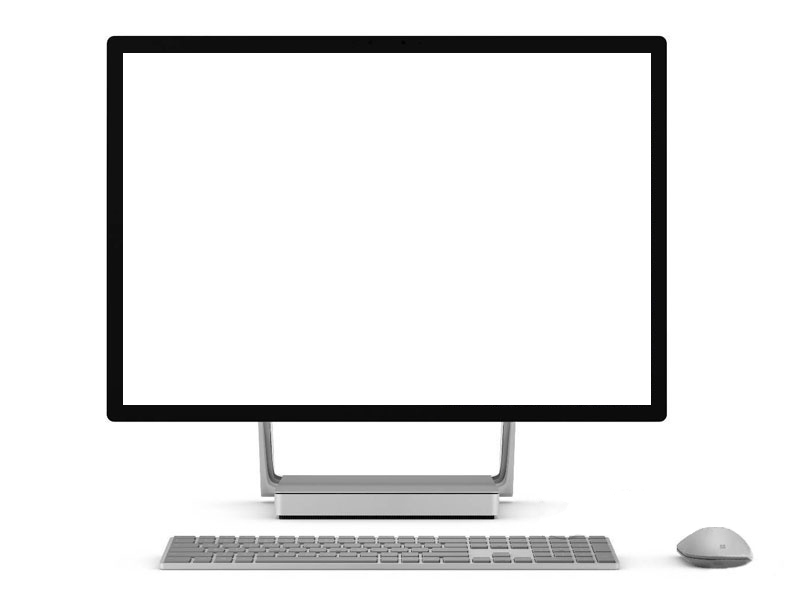
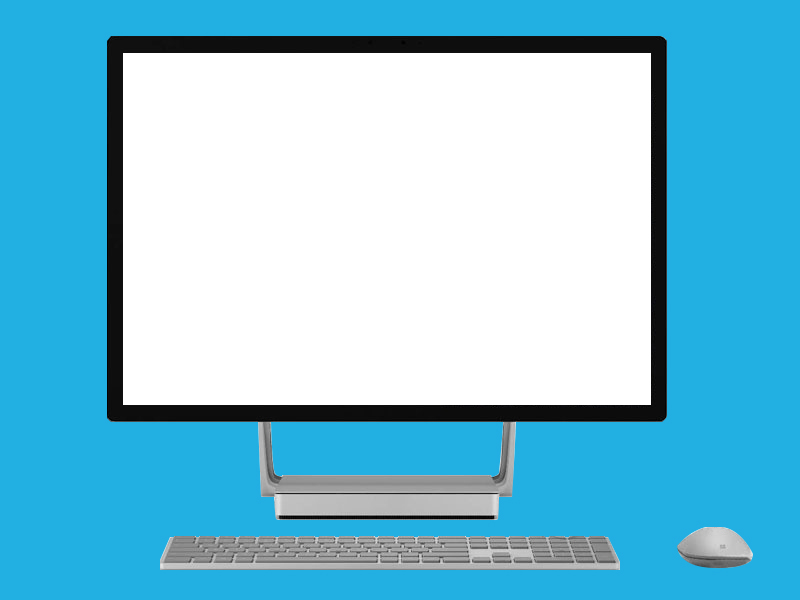
update nav-bar in home page

diff --git a/public/css/home.css b/public/css/home.css
@@ -11,6 +11,83 @@ body {
   -webkit-font-smoothing: antialiased;
 }
 
+header {
+	opacity: 0.2;
+	z-index: 11;
+	top: 0;
+	left: 0;
+	position: fixed;
+	height: 80px;
+	width: 100%;
+}
+
+.header-bg {
+	background-color: #FFFFFF;
+}
+.header-logo {
+	margin-left: 2em;
+	height: 90%;
+	margin-top: 0.2em;
+}
+
+.footer {
+	height: 2em;
+}
+
+.nav-main{
+	height: 3em;
+	z-index: 11;
+	width: 100%;
+	background-color: #fff;
+	box-shadow: 0 0 10px -2px #000;
+	bottom: 0;
+	left:0;
+	position: fixed;
+}
+.nav-main, .nav-main * {
+	font-size: 20px;
+}
+.nav--main-top {
+	color: #FFFFFF;
+	text-align: center;
+	height: 100%;
+}
+.nav-bar {
+	float: none;
+	margin: 0;
+	padding: 0;
+	display: block;
+	height: 100%;
+}
+.nav-bar li {
+	list-style: none;
+}
+.nav-bar > li.on > a {
+	color: #2196F3;
+}
+.nav-item {
+	float: left;
+	height: 100%;
+	width: 25%;
+}
+.nav-link {
+	display: block;
+	height: 100%;
+	text-decoration: none;
+	color: #515151;
+}
+.nav-a-img {
+	padding-top: 0.4em;
+	width: 1.6em;
+	height: 1.6em;
+	
+}
+.nav-link p {
+	font-size: 0.75em;
+	margin: 0;
+	padding-top: 0.1em;
+}
+
 /* Tablet Layout: 481px to 768px. Inherits styles from: Mobile Layout. */
 
 @media only screen and (min-width: 481px) {
@@ -21,5 +98,56 @@ body {
 
 @media only screen and (min-width: 769px) {
 
+
+header {
+	display: block;
+	height: 80px;
+}
+.header-logo {
+	margin-left: 5em;
+	height: 90%;
+	margin-top: 0.5em;
+}
+
+.footer {
+	height: 0em;
+}
+
+.nav-main {
+	height: 80px;
+	top: 0;
+	bottom: auto;
+	box-shadow: 0 0 0;
+	background-color: transparent;
+}
+.nav--main-top {
+	margin: 0 auto;
+	width: 512px;
+}
+.nav-item {
+	width: auto;
+}
+.nav-a-img {
+	display: none;
+}
+
+.nav-link {
+	color: #ffffff;
+}
+.nav-link div {
+	height: 100%;
+}
+.nav-bar a {	
+	opacity: 0.4;
+}
+.nav-bar > li.on > a {
+	opacity: 1;
+	color: #FFFFFF;
+}
+.nav-link p {
+	font-size: 1.2em;
+	padding: 25px 40px 0 40px;
+	margin: 0;
+}
 
 }

diff --git a/views/index.html b/views/index.html
@@ -10,6 +10,19 @@
 </head>
 
 <body>
+
+<!-- <header> -->
+	<!-- <div class="header-nav"> -->
+		<!-- <ul> -->
+			<!-- <li><a href="blog">博客</a></li> -->
+			<!-- <li><a href="album">相册</a></li> -->
+			<!-- <li><a href="msg">留言</a></li> -->
+		<!-- </ul> -->
+	<!-- </div> -->
+<!-- </header> -->
+
+<% include header.html %>
+
 <section id="dowebok" class="fullscreenslider">
 	<div class="slidewrapper">
 		<article id="slide0" class="slide">
@@ -18,7 +31,7 @@
 
 		<article id="slide1" class="slide">
 			<!-- <div style="position: relative; top: 35%; font: 700 60px 'Microsoft Yahei'; text-align: center;"> -->
-				<% include coding.html %>
+			<% include coding.html %>
 			<!-- </div> -->
 		</article>
 
@@ -26,15 +39,15 @@
 			<% include bike.html %>
 		</article>
 
-		<article class="slide">
-			<div style="position: relative; top: 30%; font-size: 40px; max-width: 5em; margin-left: auto; margin-right: auto;">
-				<ul>
-					<li><a href="blog">博客</a></li>
-					<li><a href="album">相册</a></li>
-					<li><a href="msg">留言</a></li>
-				</ul>
-			</div>
-		</article>
+		<!-- <article class="slide"> -->
+			<!-- <div style="position: relative; top: 30%; font-size: 40px; max-width: 5em; margin-left: auto; margin-right: auto;"> -->
+				<!-- <ul> -->
+					<!-- <li><a href="blog">博客</a></li> -->
+					<!-- <li><a href="album">相册</a></li> -->
+					<!-- <li><a href="msg">留言</a></li> -->
+				<!-- </ul> -->
+			<!-- </div> -->
+		<!-- </article> -->
 
 		<!-- <article class="slide"> -->
 			<!-- <p style="position: relative; top: 35%; font: 700 60px 'Microsoft Yahei'; text-align: center;">第五屏</p> -->

diff --git a/public/css/fullscreenslider.css b/public/css/fullscreenslider.css
@@ -114,12 +114,10 @@ section.fullscreenslider article.slide:nth-of-type(2){ /* 2nd demo slide bgcolor
 	background: #22AFE2;
 	/* background: #FFFFFF; */
 }
-
 section.fullscreenslider article.slide:nth-of-type(3){ /* 3rd demo slide bgcolor */
 	background: #E56464;
 	/* background: #88D332; */
 }
-
 section.fullscreenslider article.slide:nth-of-type(4){ /* 4th demo slide bgcolor */
 	background: #A36400;
 }

diff --git a/public/css/coding.css b/public/css/coding.css
@@ -315,11 +315,11 @@ ol.linenums li {
 .code-editor {
 	position: relative;
 	width: 38.4em;
-	top: 30%;
+	top: 25%;
 	margin-left: auto;
 	margin-right: auto;
 	height: 21.6em;
-	background: rgba(0, 0, 0, 0) url("../img/SurfaceStudio.jpg") no-repeat left top / 38.4em 21.6em;
+	background: rgba(0, 0, 0, 0) url("../img/SurfaceStudio.png") no-repeat left top / 38.4em 21.6em;
 }
 
 pre.numbers {

diff --git a/public/css/bike.css b/public/css/bike.css
@@ -1,6 +1,6 @@
 #bikeanimation {
 	position: relative;
-	top: 30%;
+	top: 40%;
 	width: 45em;
 	margin: 0 auto;
 }
